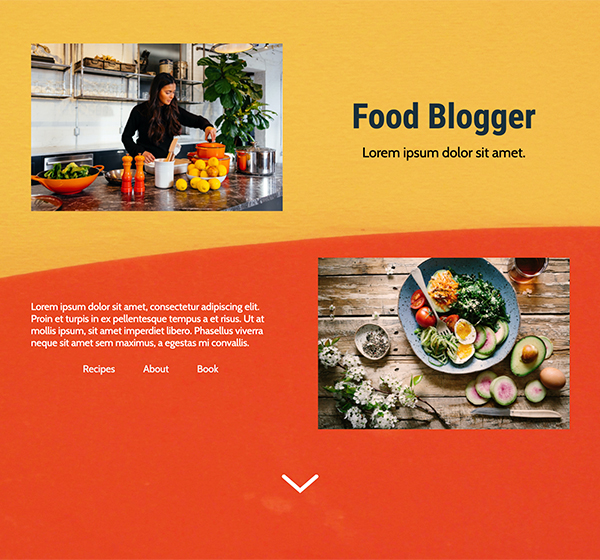
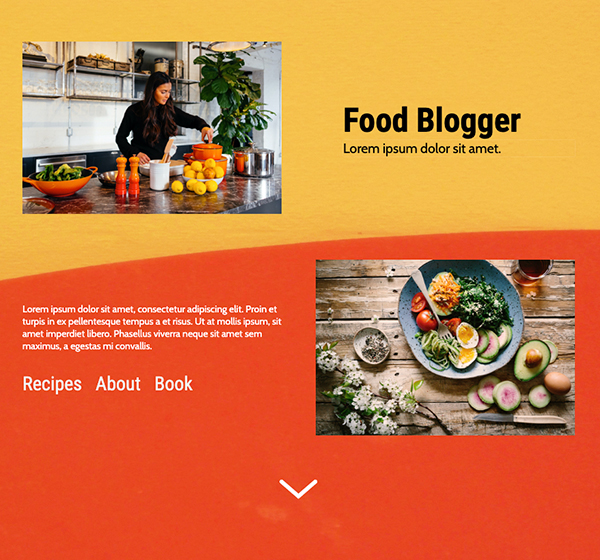
update

diff --git a/wordpress-templates/food-blogger/style.css b/wordpress-templates/food-blogger/style.css
@@ -50,7 +50,6 @@ h5 {
   font-family: var(--small-font);  
   font-size: 1.4rem;
   font-weight: 200;
-  margin-top: 10px;
 }
 
 p {
@@ -66,7 +65,7 @@ a {
 
 h1 a {
   text-decoration: none;
-  color: var(--bg-blue-dk);
+  color: #000;
 }
 
 section {
@@ -219,13 +218,13 @@ section {
 }
 
 .book img:first-of-type {
-  width: 370px;
+  width: 49%;
   margin: 30px 10px 30px 0px;
   float: left;
 }
 
 .book img:last-of-type {
-  width: 370px;
+  width: 49%;
   margin: 30px 0px 30px 10px;
 }
 
@@ -244,21 +243,34 @@ header h1 {
 }
 
 nav {
-  max-width: 70%;
-  margin: auto;
+  margin-top: 30px;
 }
 
 nav ul {
+  
   list-style:none;
 }
 
 nav ul li {
   float: left;
-  padding: 20px;
 }
 
 nav li a {
   color: var(--bg-gray-lt);
+  font-family: var(--big-font);
+  font-size: 2rem;
+}
+
+nav li a:hover {
+  color: #fff;
+}
+
+nav ul li:first-of-type{
+  padding-right: 20px;
+}
+
+nav ul li:last-of-type{
+  padding-left: 20px;
 }
 
 
@@ -284,6 +296,10 @@ nav li a {
   align-items: center;
 }
 
+.row-1-right{
+  text-align: left;
+  padding-left: 40px;
+}
 .row-2-left {
   text-align: left;
 }
@@ -349,7 +365,7 @@ nav li a {
 
 .card.big {
   display: grid;
-  grid-template-columns: 1fr 1fr;
+  grid-template-columns: 1fr 2fr;
   grid-template-rows: 1fr;
   background-color: var(--bg-gray-lt);
   padding: 4px;
@@ -453,6 +469,12 @@ footer p {
       grid-template-rows: 1fr 1fr 1fr 1fr 1fr;
       gap: 20px;
     }
+    .book img:first-of-type{
+      width: 40%;
+    }
+    .book img:last-of-type{
+      width: 40%;
+    }
     
 }
 
@@ -470,6 +492,26 @@ footer p {
     .big-card-text {
       float: left;
       padding: 20px;
+    }
+    .book img:first-of-type{
+      width: 47%;
+    }
+    .book img:last-of-type{
+      width: 47%;
+    }
+    
+    .row-1-right {
+      text-align: center;
+      padding: 0;
+    }
+    
+    nav ul li{
+      float: clear;
+      
+    }
+    
+    nav {
+        text-align: center;
     }
 }
 

diff --git a/wordpress-templates/photo-portfolio/style.css b/wordpress-templates/photo-portfolio/style.css
@@ -171,7 +171,7 @@ img {
 .site-navigation {
   margin: 0 auto;
   max-width: 1280px;
-  padding: 10px 2em;
+  padding: 20px 2em ;
 }
 
 header {
@@ -285,6 +285,7 @@ button:hover {
 
 .button:active{
   background-color: #743C20;
+  transition: 0s;
 }
 
 
